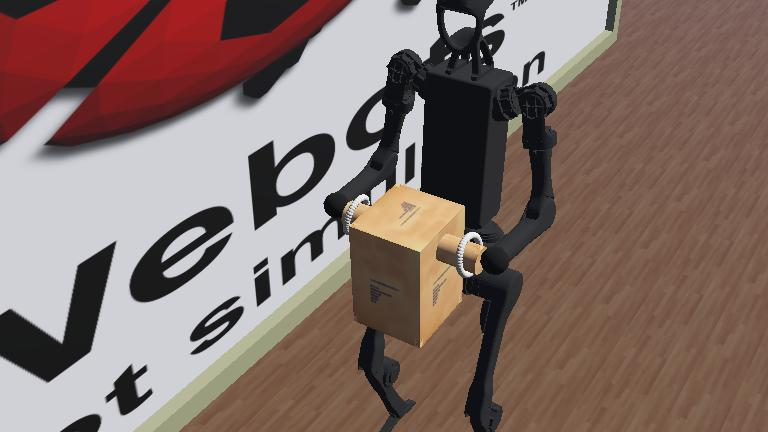
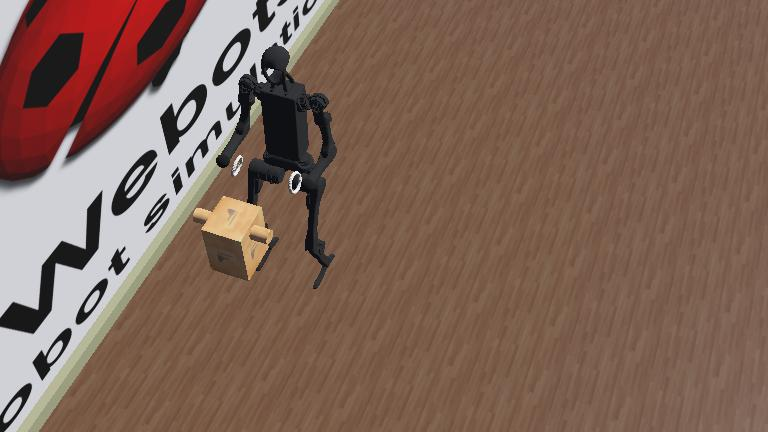
Commit fot storage;

diff --git a/src/unitree_wbc/example/src/main.cpp b/src/unitree_wbc/example/src/main.cpp
@@ -41,7 +41,7 @@ bool runWebots(ros::Publisher& joint_pos_pub, ros::Publisher& sim_info_pub){
     // timing
     int simCnt = 0;
     double simTime = 0;
-    const int goStandCnt = 5;
+    const int goStandCnt = 50;
     const double goStandTime = goStandCnt * SAMPLE_TIME;
     const int simStopCnt  = goStandCnt + 1000000;
     const double simStopTime = simStopCnt * SAMPLE_TIME;
@@ -86,6 +86,8 @@ bool runWebots(ros::Publisher& joint_pos_pub, ros::Publisher& sim_info_pub){
                            0,                     //pelvis
                            0, 0.172, -0.05, 0,  //left arm--PRY
                            0, -0.172, 0.05, 0; //right arm
+                        //    0,  0.0,  0.0, 0,  //left arm--PRY
+                        //    0, -0.0, 0.0, 0; //right arm
 
             // standPosCmd << 0, 0, 0, 0, 0, //left leg--RYP
             //                0, 0, 0, 0, 0,//right leg

diff --git a/readme.md b/readme.md
@@ -50,3 +50,11 @@ Test for the init pos of arm;
 - Solution: The init pos of the arm is not good enough, try to open the arms so that when carrying heavy objects and dropping them, the wrist position is outside the knee range.
 
 - Result: The stability is broken once starting the simulation, and didn't know the accurate reason.
+
+
+pelvisUpDown":-0.5
+"pelvisForward":-0.04,
+"pitchApt":1.02,
+"motionFrq":1,
+"armForward":0.3,
+"armUpDown"-0.8,
